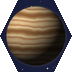
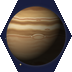
Media Control: swamp planets, gas giant keeps, 6-ring starts; red gas giant
The four planets round the centre are sea planets (swamp villages), a
keep with 1 docking ring stands on the centre side of each gas giant, and
each start has a 6th docking ring (a swamp castle in default terrain).
Gas giants get uneven, varied bands with eddies and storms, and a fourth,
red colour.

Claude-Session: https://claude.ai/code/session_01MAdJs8yKHFMpmnTsdnS8kb

diff --git a/tools/make_media_control.py b/tools/make_media_control.py
@@ -20,9 +20,12 @@ of the centre badlands in a ring of dust. The dirt road ringing the centre
 is a ring of dust clouds; the centre building is a planet in a moat of
 light badlands, with a keep with 2 docking rings west and east of it
 (added on request). The ridges just inside the ring became badlands
-(water) on request. The other roads and the houses are open space. Each player
-starts at the corner's player-start marker: a starbase with 5 docking
-rings.
+(water) on request, and the four planets round the ring sea planets
+(swamp villages); a keep with 1 docking ring stands on the centre side of
+each gas giant. The other roads and the houses are open space. Each
+player starts at the corner's player-start marker: a starbase with 6
+docking rings (the one towards the centre a swamp castle in default
+terrain).
 
 Also writes maps/default-terrain/4p_Media_Control.map: the same map in
 default Wesnoth terrain (grass, woods, hills, impassable ridges, rivers,
@@ -53,10 +56,10 @@ T = {".": "Ys", "n": "Yn", "a": "Ys^Ya", "w": "Ys^Yw", "p": "Ys^Vyp",
      "e": "Yd", "o": "Ys",
      # impassable terrains that replace most of the asteroid walls
      "D": "Yqd", "R": "Yqr", "P": "Yqp", "E": "Yqe", "S": "Yqd^Yx",
-     "U": "Yqr^Yxp", "X": "Yqe^Yxb", "G": "Yqd^Ygg"}
+     "U": "Yqr^Yxp", "X": "Yqe^Yxb", "G": "Yqd^Ygg", "q": "Yis^Vys", "C": "Yc"}
 WESNOTH = {".": "Gg", "n": "Gs^Fp", "a": "Hh", "w": "Md^Xm", "p": "Gg^Vh",
            "K": "Kh", "c": "Ch", "r": "Ww", "f": "Wwf", "B": "Wo", "d": "Re",
-           "e": "Ds", "o": "Re"}
+           "e": "Ds", "o": "Re", "q": "Ss^Vhs", "C": "Chs"}
 BARRIER = "wDRPESUXG"
 WESNOTH.update({ch: "Md^Xm" for ch in BARRIER})
 LEAFY = "Gg^Fds"                 # every third wood hex is deciduous
@@ -71,6 +74,7 @@ FIELDS = [                       # tiberium fields: centre x, y, radius x, y
     (385, 365, 18, 18),          # the blue field (no tree)
 ]
 PLANETS = [(97, 22), (25, 305), (325, 12), (542, 85), (482, 362)]
+SWAMP_PLANETS = [(482, 362)]     # sea planets (swamp villages), on request
 WOODS = [
     (240, 275, 45, 50), (190, 230, 35, 30), (390, 165, 32, 38),
     (480, 112, 30, 18), (475, 30, 20, 25), (450, 365, 40, 32),
@@ -181,7 +185,7 @@ def neighbours(x, y):
 
 
 COST = {".": 1, "n": 2, "a": 2, "r": 3, "f": 1, "B": 3, "d": 2, "e": 2,
-        "p": 1, "K": 1, "c": 1, "o": 1}       # a medium ship's moves
+        "p": 1, "K": 1, "c": 1, "o": 1, "q": 1, "C": 1}       # a medium ship's moves
 
 
 def moves(grid, start):
@@ -200,7 +204,7 @@ def moves(grid, start):
     return dist
 
 
-def place_planet(grid, keeps, p):
+def place_planet(grid, keeps, p, ch="p"):
     """Put a planet and its three turned copies on the map. Turning lands
     them on slightly different hexes for each player, so each copy may
     move up to two hexes to put it as many moves from its own player's
@@ -220,7 +224,7 @@ def place_planet(grid, keeps, p):
     placed = []
     for s in spots:
         d, step, (x, y) = min(s, key=lambda c: (abs(c[0] - target), c[1]))
-        grid[y][x] = "p"
+        grid[y][x] = ch
         placed.append(((x, y), d))
     return placed
 
@@ -271,11 +275,14 @@ def build():
             x, y = nearest(*to_map(*p, turn))
             if grid[y][x] == cloud:
                 grid[y][x] = ch
+    giants = []
     for turn in range(4):        # a diamond: 2 hexes and the 2 beside them
         x, y = nearest(*to_map(*GAS_GIANT, turn))
         up = y - 1 if x % 2 == 0 else y
-        for u, v in [(x, y), (x, y + 1), (x + 1, up), (x + 1, up + 1)]:
+        diamond = [(x, y), (x, y + 1), (x + 1, up), (x + 1, up + 1)]
+        for u, v in diamond:
             grid[v][u] = "G"
+        giants.append(diamond)
     for w in INNER:
         line("B", w)
     line("r", RIVER)
@@ -288,13 +295,34 @@ def build():
         x, y = nearest(*to_map(*START, turn))
         grid[y][x] = "K"
         keeps.append((x, y))
-        # 5 docking rings: every neighbour but the one towards the centre
+        # 6 docking rings; on request the one towards the centre is a
+        # swamp castle in the default-terrain map
         ring = sorted(neighbours(x, y),
                       key=lambda n: (n[0] - CX) ** 2 + (n[1] - CY) ** 2)
         for u, v in ring[1:]:
             grid[v][u] = "c"
+        grid[ring[0][1]][ring[0][0]] = "C"
     for p in PLANETS:
-        place_planet(grid, keeps, p)
+        place_planet(grid, keeps, p, "q" if p in SWAMP_PLANETS else "p")
+    dists = [moves(grid, k) for k in keeps]
+    for diamond in giants:
+        # added on request: a keep with 1 docking ring two hexes from the
+        # gas giant on its centre side, the ring towards the centre
+        gx = sum(centre(*h)[0] for h in diamond) / 4
+        gy = sum(centre(*h)[1] for h in diamond) / 4
+        dx, dy = MID[0] - gx, MID[1] - gy
+        r = math.hypot(dx, dy)
+        kx, ky = nearest(gx + dx / r * 150, gy + dy / r * 150)
+        # it lies between two players' bases: move it a hex if that puts
+        # it as many moves from the one as from the other
+        def gap(h):
+            a, b = sorted(d.get(h, 99) for d in dists)[:2]
+            return b - a, h != (kx, ky)
+        kx, ky = min([(kx, ky)] + [h for h in neighbours(kx, ky)
+                                   if grid[h[1]][h[0]] in ".n"], key=gap)
+        ring = min(neighbours(kx, ky), key=lambda h: math.dist(centre(*h), MID))
+        grid[ky][kx] = "K"
+        grid[ring[1]][ring[0]] = "c"
     grid[CY][CX] = "p"                               # the centre building
     for u, v in neighbours(CX, CY):                  # in its moat
         grid[v][u] = "r"

diff --git a/tools/make_barriers.py b/tools/make_barriers.py
@@ -233,12 +233,63 @@ GAS_GIANTS = [
     [(150, 100, 60), (210, 170, 110), (240, 220, 180), (190, 130, 80), (230, 200, 150)],   # tan
     [(40, 70, 150), (70, 120, 200), (150, 190, 235), (60, 100, 180), (120, 170, 225)],     # blue
     [(120, 140, 110), (170, 190, 150), (220, 225, 200), (140, 160, 120), (200, 210, 180)],  # sage
+    [(110, 25, 20), (175, 55, 35), (235, 150, 115), (145, 40, 30), (210, 95, 65)],         # red
 ]
 GIANT_D = 134          # fits the diamond of four hexes it stands on
 
 
+def banded_sphere(rng, d, palette, light=(-0.55, -0.55, 0.63)):
+    """A gas giant's globe: bands of uneven width and contrast, some broad
+    and soft, some thin and sharp, with wavy, turbulent edges, a few
+    eddies along them and now and then a big oval storm. Every call draws
+    a different pattern."""
+    s = d + 8
+    x, y = _grid(s); r = d / 2
+    nx, ny = x / r, y / r; d2 = nx ** 2 + ny ** 2
+    nz = np.sqrt(np.clip(1 - d2, 0, 1))
+    L = np.array(light); L /= np.linalg.norm(L)
+    shade = 0.1 + 0.9 * np.clip(nx * L[0] + ny * L[1] + nz * L[2], 0, 1)
+    # latitude, bent by turbulence and by waves running along the bands
+    tex = _noise(rng, s, 5, 3)
+    fine = _noise(rng, s, 4, 9)
+    waves = sum(rng.uniform(0.005, 0.02) * np.sin(nx * rng.uniform(4, 14) + rng.uniform(0, 6.3)
+                                                    + ny * rng.uniform(-3, 3)) for _ in range(3))
+    lat = ny + 0.07 * (tex - 0.5) + 0.025 * (fine - 0.5) + waves
+    # the band profile: a random walk of band edges, each band its own colour
+    edges = np.sort(rng.uniform(-1.1, 1.1, int(rng.integers(7, 13))))
+    edges = np.concatenate([[-1.5], edges, [1.5]])
+    values = rng.uniform(0, 1, len(edges) - 1)
+    soft = rng.uniform(0.01, 0.06, len(edges))           # how sharp each edge is
+    t = np.full_like(lat, values[0])
+    for i in range(1, len(values)):
+        step = np.clip((lat - edges[i]) / soft[i] * 0.5 + 0.5, 0, 1)
+        t = t * (1 - step) + values[i] * step
+    # thin streaks inside the bands
+    streaks = np.sin(lat * rng.uniform(30, 60) + 6 * tex) * 0.5 + 0.5
+    patchy = np.clip(fine * 2 - 0.5, 0, 1)          # streaks come and go
+    t = np.clip(t + (streaks - 0.5) * patchy * rng.uniform(0.05, 0.14), 0, 1)
+    # small eddies along band edges, and maybe one big storm
+    spots = []
+    for e in rng.choice(edges[1:-1], size=min(3, len(edges) - 2), replace=False):
+        spots.append((rng.uniform(-0.7, 0.7), e, rng.uniform(0.06, 0.12), rng.uniform(0.03, 0.06)))
+    if rng.uniform() < 0.7:
+        spots.append((rng.uniform(-0.4, 0.4), rng.uniform(-0.55, 0.55),
+                      rng.uniform(0.18, 0.28), rng.uniform(0.08, 0.13)))
+    for sx, sy, rx, ry in spots:
+        q = ((nx - sx) / rx) ** 2 + ((ny - sy) / ry) ** 2
+        swirl = np.clip(1 - q, 0, 1)
+        ring = np.clip(1 - np.abs(q - 0.8) / 0.25, 0, 1)
+        t = t * (1 - swirl) + rng.choice([0.0, 1.0]) * swirl * 0.8 + t * swirl * 0.2
+        t = np.clip(t - ring * 0.25, 0, 1)
+    cols = np.array(palette, np.float32)
+    idx = np.clip(t * (len(cols) - 1), 0, len(cols) - 1.001); lo = np.floor(idx).astype(int)
+    f = (idx - lo)[..., None]
+    rgb = (cols[lo] * (1 - f) + cols[lo + 1] * f) * shade[..., None]
+    return _rgba(rgb, np.clip((1 - np.sqrt(d2)) * r, 0, 1))
+
+
 def gas_giant(rng, palette):
-    g = sphere(rng, GIANT_D * 2, palette, "gas").resize((GIANT_D + 8, GIANT_D + 8), Image.LANCZOS)
+    g = banded_sphere(rng, GIANT_D * 2, palette).resize((GIANT_D + 8, GIANT_D + 8), Image.LANCZOS)
     size = GIANT_D + 24
     out = Image.new("RGBA", (size, size))
     halo = Image.new("RGBA", (size, size)); c = size / 2
